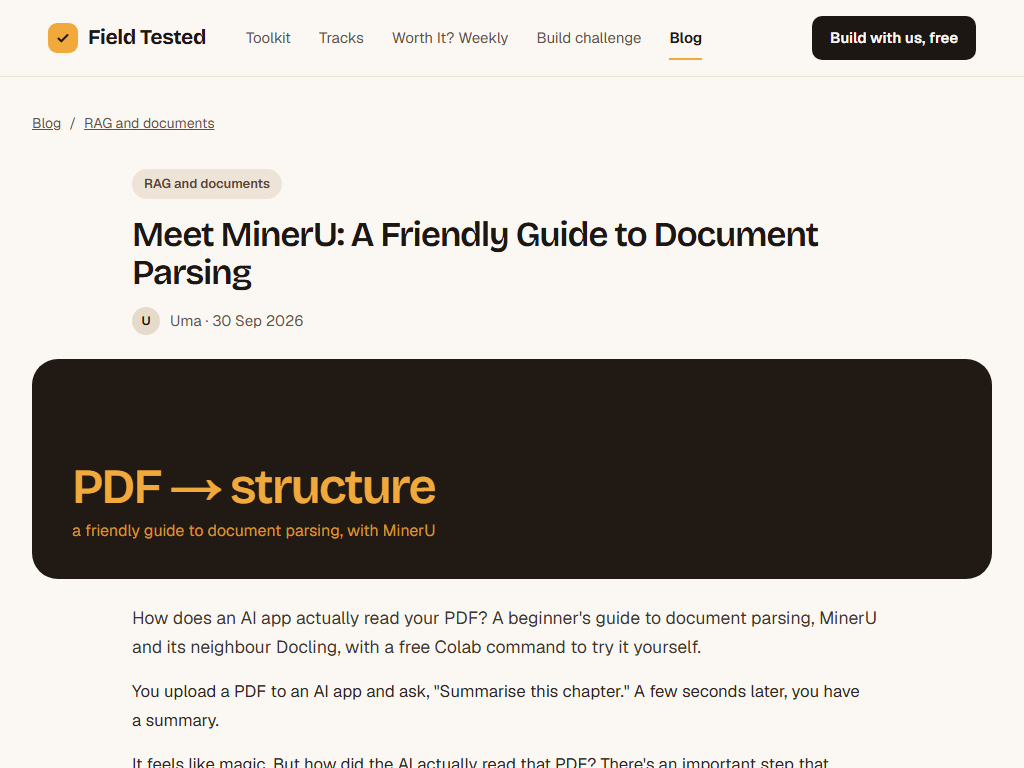
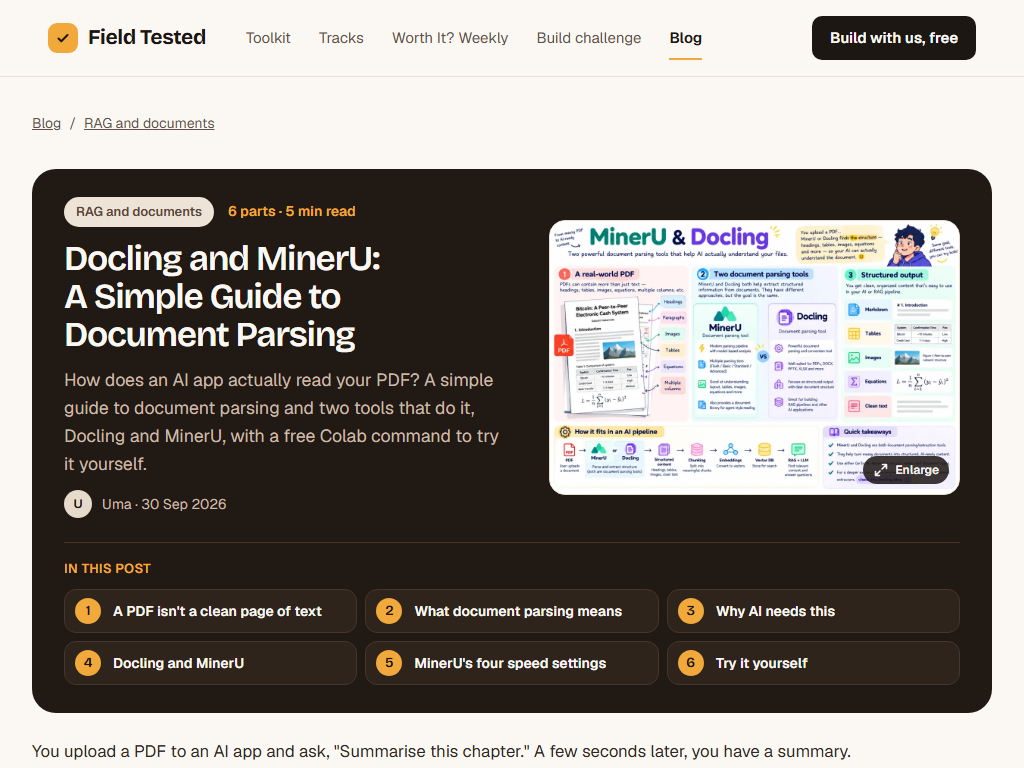
MinerU post: name both tools, add Uma's infographic, link Docling
Title "Docling and MinerU: A Simple Guide to Document Parsing", Uma's
"MinerU & Docling" infographic as the cover, links to the Docling post
in the intro, Part 2, Part 4 (plus a "More on Docling" box), Part 6,
the recap and references. The Docling post links back ("Also read").

diff --git a/scripts/seed-post-mineru.py b/scripts/seed-post-mineru.py
@@ -1,5 +1,5 @@
-"""Adds (or updates) Uma's post "Meet MinerU: A Friendly Guide to Document Parsing" in
-api/seed/posts.json. No pictures: flow blocks carry the diagrams.
+"""Adds (or updates) Uma's post "Docling and MinerU: A Simple Guide to Document Parsing" in
+api/seed/posts.json, with her "MinerU & Docling" infographic as the cover (web/public/blog/mineru-docling/).
 
 Text: written on 30 Sept 2026 from Uma's notes and her Colab run (MinerU 4.0.10 on bitcoin.pdf), kept
 basic on purpose: the deeper Docling details live in the Docling post, which this one links to. MinerU
@@ -18,6 +18,17 @@ REPO = "https://github.com/opendatalab/MinerU"
 TIERS = "https://opendatalab.github.io/MinerU/usage/tiers/"
 QUICK = "https://opendatalab.github.io/MinerU/quick_start/"
 DOCLING_POST = "/blog/docling-pdf-is-not-just-text"
+IMG = "/blog/mineru-docling/overview.webp"
+OVERVIEW_ALT = (
+    "MinerU and Docling: two document parsing tools that help AI understand your files. 1, a real-world PDF (the "
+    "Bitcoin paper) holds headings, paragraphs, images, tables, equations and multiple columns. 2, MinerU and "
+    "Docling side by side: MinerU has a model-based pipeline with Flash, Basic, Standard and Advanced tiers and a "
+    "document library for agent-style reading; Docling is a document parsing and conversion tool for PDF, DOCX, "
+    "PPTX and XLSX that focuses on structured output for RAG. 3, structured output: Markdown, tables, images, "
+    "equations and clean text. Below, how it fits in an AI pipeline (PDF, MinerU or Docling, structured content, "
+    "chunking, embeddings, vector database, RAG and LLM) and quick takeaways: both are document parsing tools, use "
+    "either or both, and see the Docling blog for more."
+)
 
 
 def p(*lines):
@@ -55,7 +66,9 @@ def pair(*items):
 BODY = [
     *p("You upload a PDF to an AI app and ask, \"Summarise this chapter.\" A few seconds later, you have a summary.",
        "It feels like magic. But how did the AI actually read that PDF? There's an important step that happens "
-       "before the AI sees a single word, and that's what this post is about."),
+       "before the AI sees a single word, and that's what this post is about.",
+       f"We'll keep it simple and meet two tools that do this job, Docling and MinerU. If you want the deeper "
+       f"version first, [read our Docling post]({DOCLING_POST})."),
 
     h("A PDF isn't a clean page of text", "part-1"),
     *p("A PDF can hold a heading, then a paragraph, then a picture, a table, an equation and another section, all "
@@ -72,7 +85,8 @@ BODY = [
        "big pile of text, you get the pieces, each with a label:"),
     flow("PDF", "Document parser", "Heading, paragraph, table, image, section, equation"),
     *p("The important part isn't just getting the words. It's knowing where each word belongs: this is a title, "
-       "this is a table cell, this caption goes with that figure."),
+       "this is a table cell, this caption goes with that figure.",
+       f"Our [Docling post]({DOCLING_POST}#part-3) shows this step by step, with a real page and every part labelled."),
     takeaway("Parsing keeps the shape of the document, not just its words."),
 
     h("Why AI needs this", "part-3"),
@@ -84,9 +98,9 @@ BODY = [
     flow("PDF", "Document parsing", "Structured content", "Chunking", "Embeddings", "Vector database", "RAG answer"),
     takeaway("Good answers start with a well-parsed document."),
 
-    h("Meet MinerU (and its famous neighbour, Docling)", "part-4"),
-    *p(f"You may already know Docling from [our last post]({DOCLING_POST}). MinerU is in the same category: an "
-       "open-source document parser, from the OpenDataLab team. You give it a document, and it gives you "
+    h("Docling and MinerU: same goal, different tools", "part-4"),
+    *p(f"You may already know Docling from [our Docling post]({DOCLING_POST}). MinerU is in the same category: an "
+       "open-source document parser, from the OpenDataLab team. You give either one a document, and you get back "
        "structured content your app can use."),
     box("Tell the neighbours",
         "Your neighbour's kid just built a RAG app with Docling, and now the whole colony is talking about it. Relax. "
@@ -101,6 +115,8 @@ BODY = [
     ul("It reads PDFs and images, and also Word, PowerPoint, Excel, EPUB and HTML files, among others.",
        "It can give you the result as Markdown, HTML, LaTeX and a few other formats.",
        "It runs on your own computer by default. Your documents aren't uploaded anywhere unless you set that up."),
+    box("More on Docling", f"How it reads layout, handles scanned pages and exports Markdown is all in [our Docling "
+                           f"post]({DOCLING_POST})."),
     takeaway("Docling and MinerU are neighbours, not rivals. Same job, different engines."),
 
     h("MinerU's four speed settings", "part-5"),
@@ -119,7 +135,8 @@ BODY = [
     *p("The first run downloads some model files, so it can look busy for a while. That's normal. Don't stop it and "
        "don't run it twice. When it finishes, open the Markdown file and look for headings, paragraphs, lists and "
        "tables.",
-       "Then do the fun part: run the same PDF through Docling and put the two results side by side. Don't ask "
+       f"Then do the fun part: run the same PDF through Docling ([the commands are here]({DOCLING_POST}#part-5)) "
+       "and put the two results side by side. Don't ask "
        "\"Which tool is better?\" Ask \"Which one keeps what I need from my documents?\""),
     box("Good to know", "MinerU needs Python 3.10 to 3.14. Colab's Python works."),
     takeaway("The best parser is the one that works on your documents. Test it."),
@@ -130,7 +147,7 @@ BODY = [
     flow("Messy PDF", "Sort what's inside", "Heading, paragraph, table, image, section", "AI-ready content"),
     pair(("Don't think", "PDF → Text → AI"), ("Think", "PDF → Structure → AI")),
     *p("Docling or MinerU, the idea is the same: turn messy documents into structured information that software and "
-       "AI can work with. That's the whole game."),
+       f"AI can work with. That's the whole game. For the full picture, [read our Docling post]({DOCLING_POST})."),
     {"type": "links", "label": "Official references", "items": [
         {"label": "MinerU on GitHub", "href": REPO},
         {"label": "MinerU tiers", "href": TIERS},
@@ -142,19 +159,20 @@ BODY = [
 POST = {
     "slug": "mineru-document-parsing-for-beginners",
     "category": "rag-and-documents",
-    "title": "Meet MinerU: A Friendly Guide to Document Parsing",
-    "excerpt": "How does an AI app actually read your PDF? A beginner's guide to document parsing, MinerU and its "
-               "neighbour Docling, with a free Colab command to try it yourself.",
-    "cover": {"text": "MinerU", "bg": "#211913", "fg": "#F2A93B", "image": None},
+    "title": "Docling and MinerU: A Simple Guide to Document Parsing",
+    "excerpt": "How does an AI app actually read your PDF? A simple guide to document parsing and two tools that do "
+               "it, Docling and MinerU, with a free Colab command to try it yourself.",
+    "cover": {"text": "Docling & MinerU", "bg": "#211913", "fg": "#F2A93B",
+              "image": {"src": IMG, "width": 1536, "height": 1024, "alt": OVERVIEW_ALT}},
     # Newest post with a "featured" line = the Featured box on /blog and the homepage card.
-    "featured": {"stat": "PDF → structure", "caption": "a friendly guide to document parsing, with MinerU"},
+    "featured": {"stat": "Docling & MinerU", "caption": "a simple guide to document parsing"},
     "dive": None,
     "body": BODY,
     "published_on": "2026-09-30",
     "learn": [
         "What document parsing is, in plain words",
         "Why AI apps need a parsed document, not a text blob",
-        "What MinerU is and how it compares with Docling",
+        "What Docling and MinerU are, and how they differ",
         "How to try MinerU in Google Colab",
     ],
 }

diff --git a/scripts/seed-post-docling.py b/scripts/seed-post-docling.py
@@ -213,11 +213,14 @@ BODY = [
        "information your AI pipeline can use."),
     img("pipeline", PIPELINE_ALT, "The whole journey on one page. Click to enlarge."),
 
+    *p("**Also read:** [Docling and MinerU: A Simple Guide to Document Parsing]"
+       "(/blog/mineru-document-parsing-for-beginners), a lighter introduction that compares Docling with MinerU."),
     {"type": "links", "label": "Official references", "items": [
         {"label": "Docling documentation", "href": DOCS},
         {"label": "Docling CLI reference", "href": CLI},
         {"label": "DoclingDocument structure", "href": MODEL},
         {"label": "My walkthrough video", "href": VIDEO_URL},
+        {"label": "Docling and MinerU, compared", "href": "/blog/mineru-document-parsing-for-beginners"},
     ]},
 ]
 
